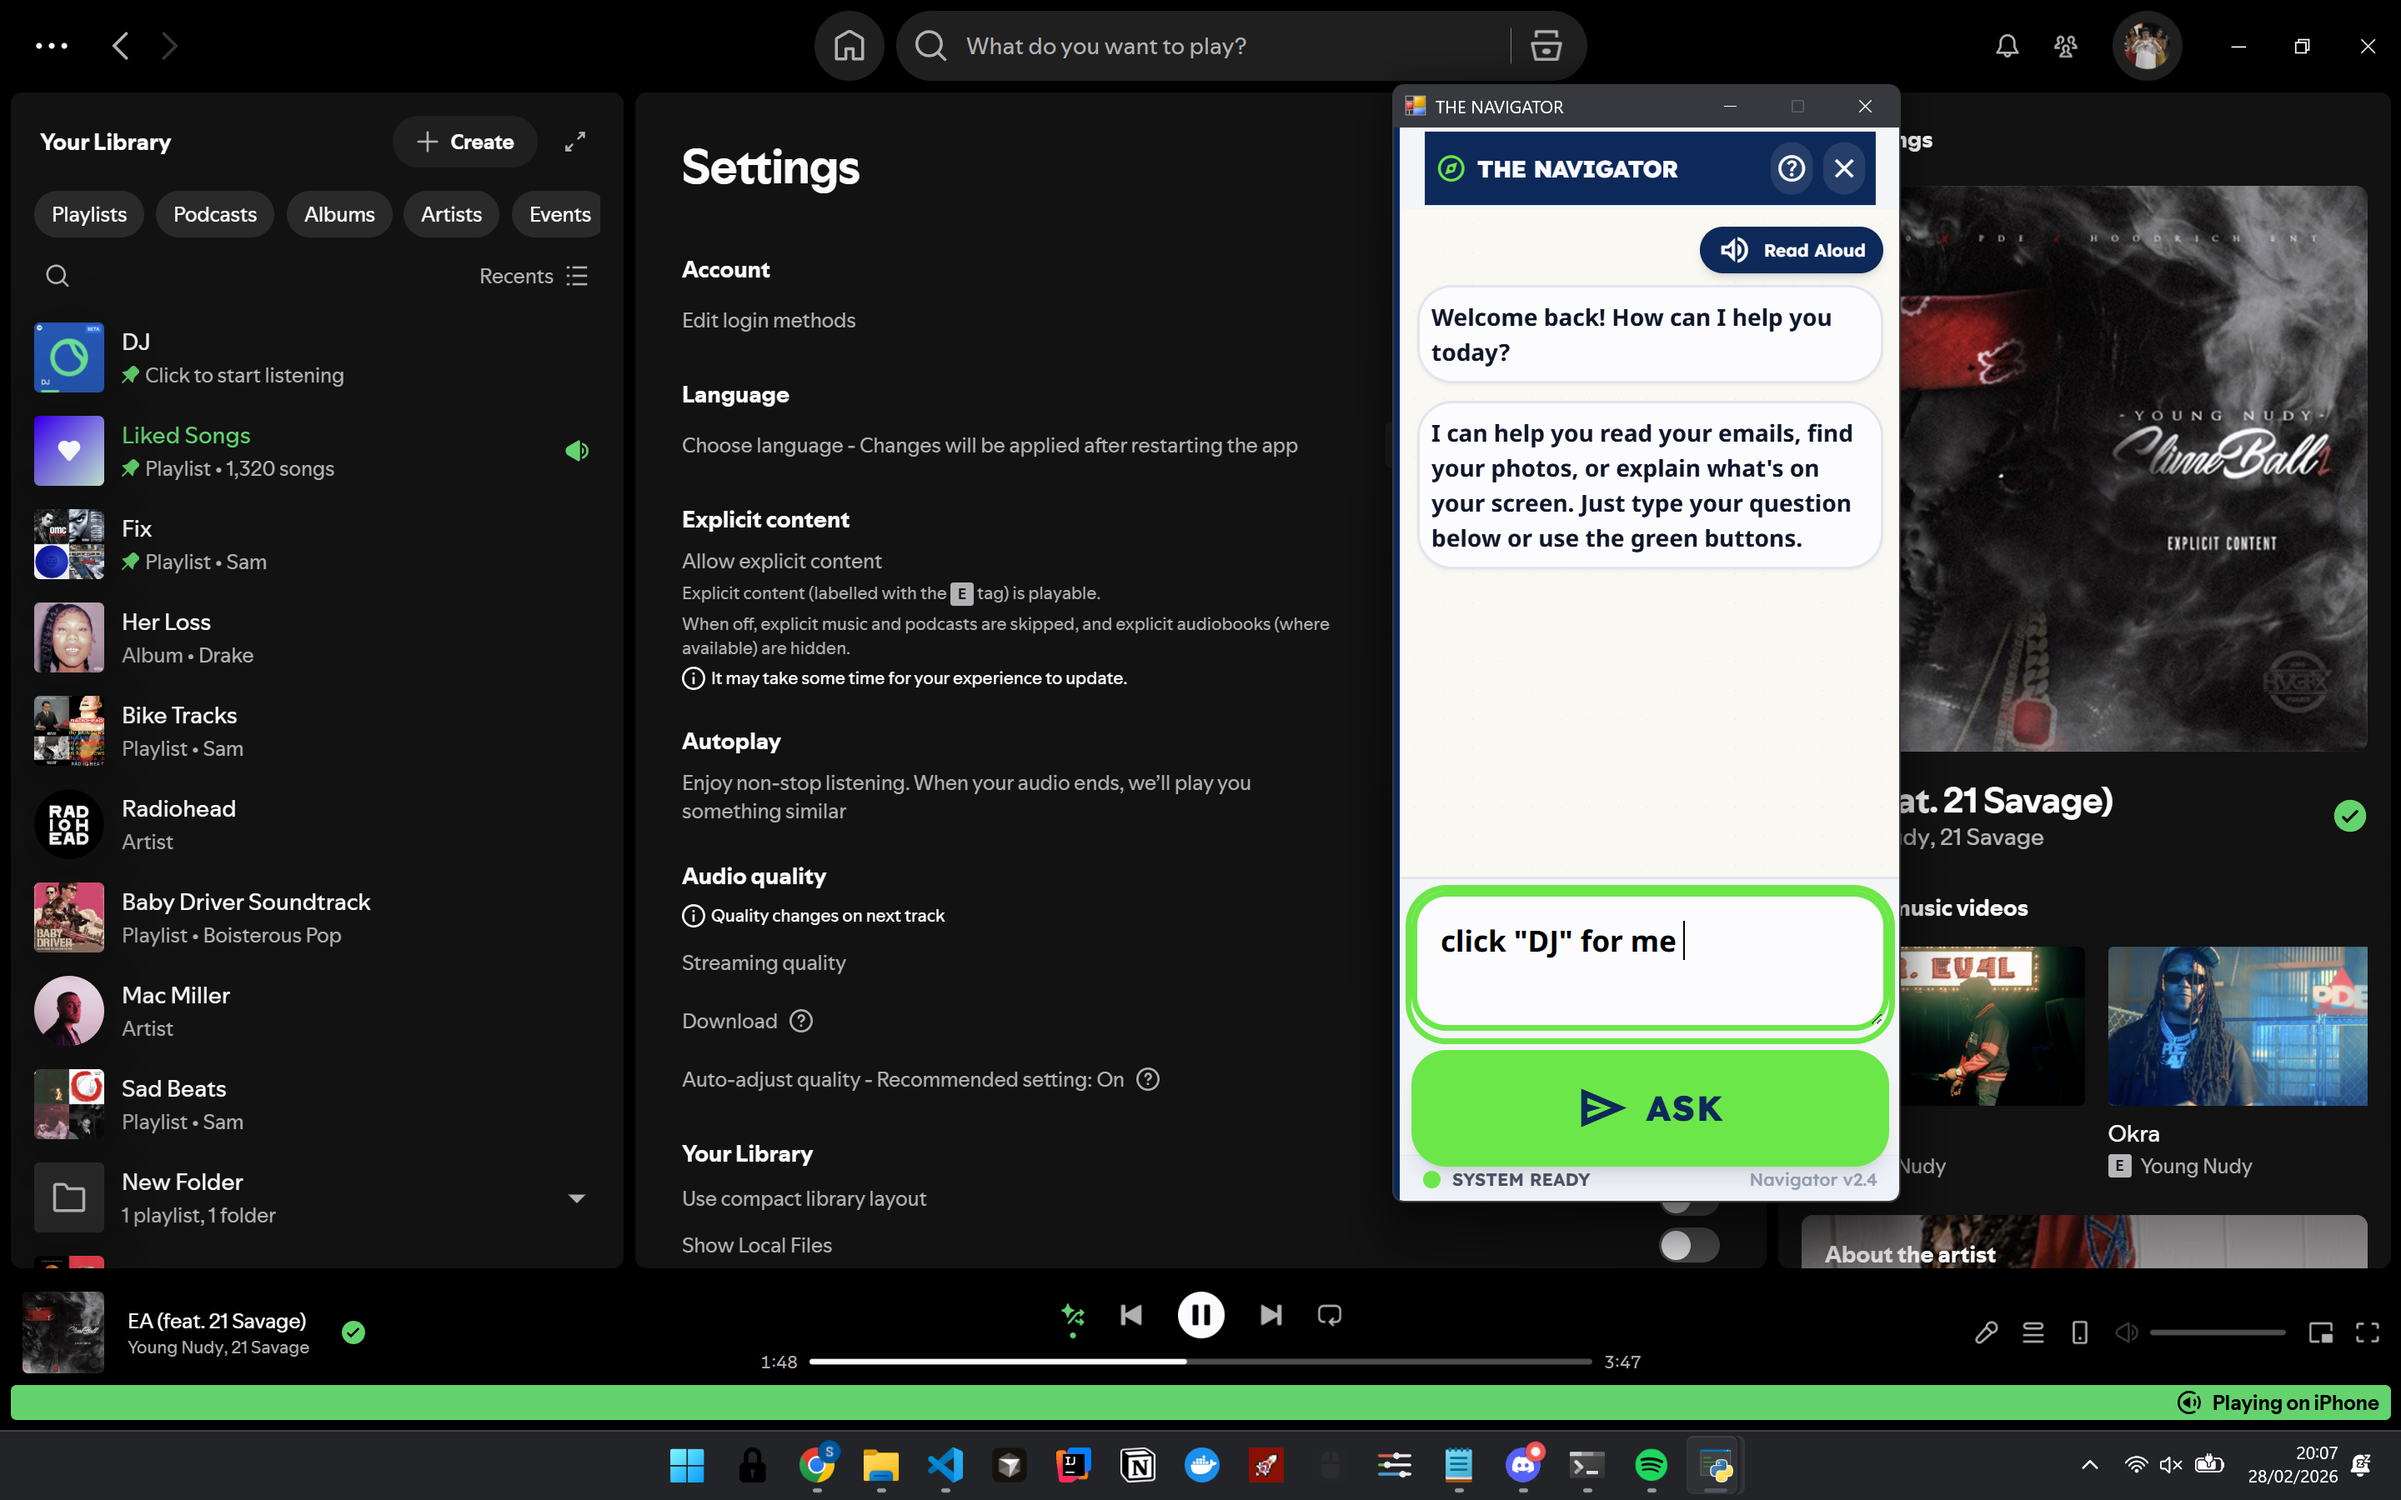
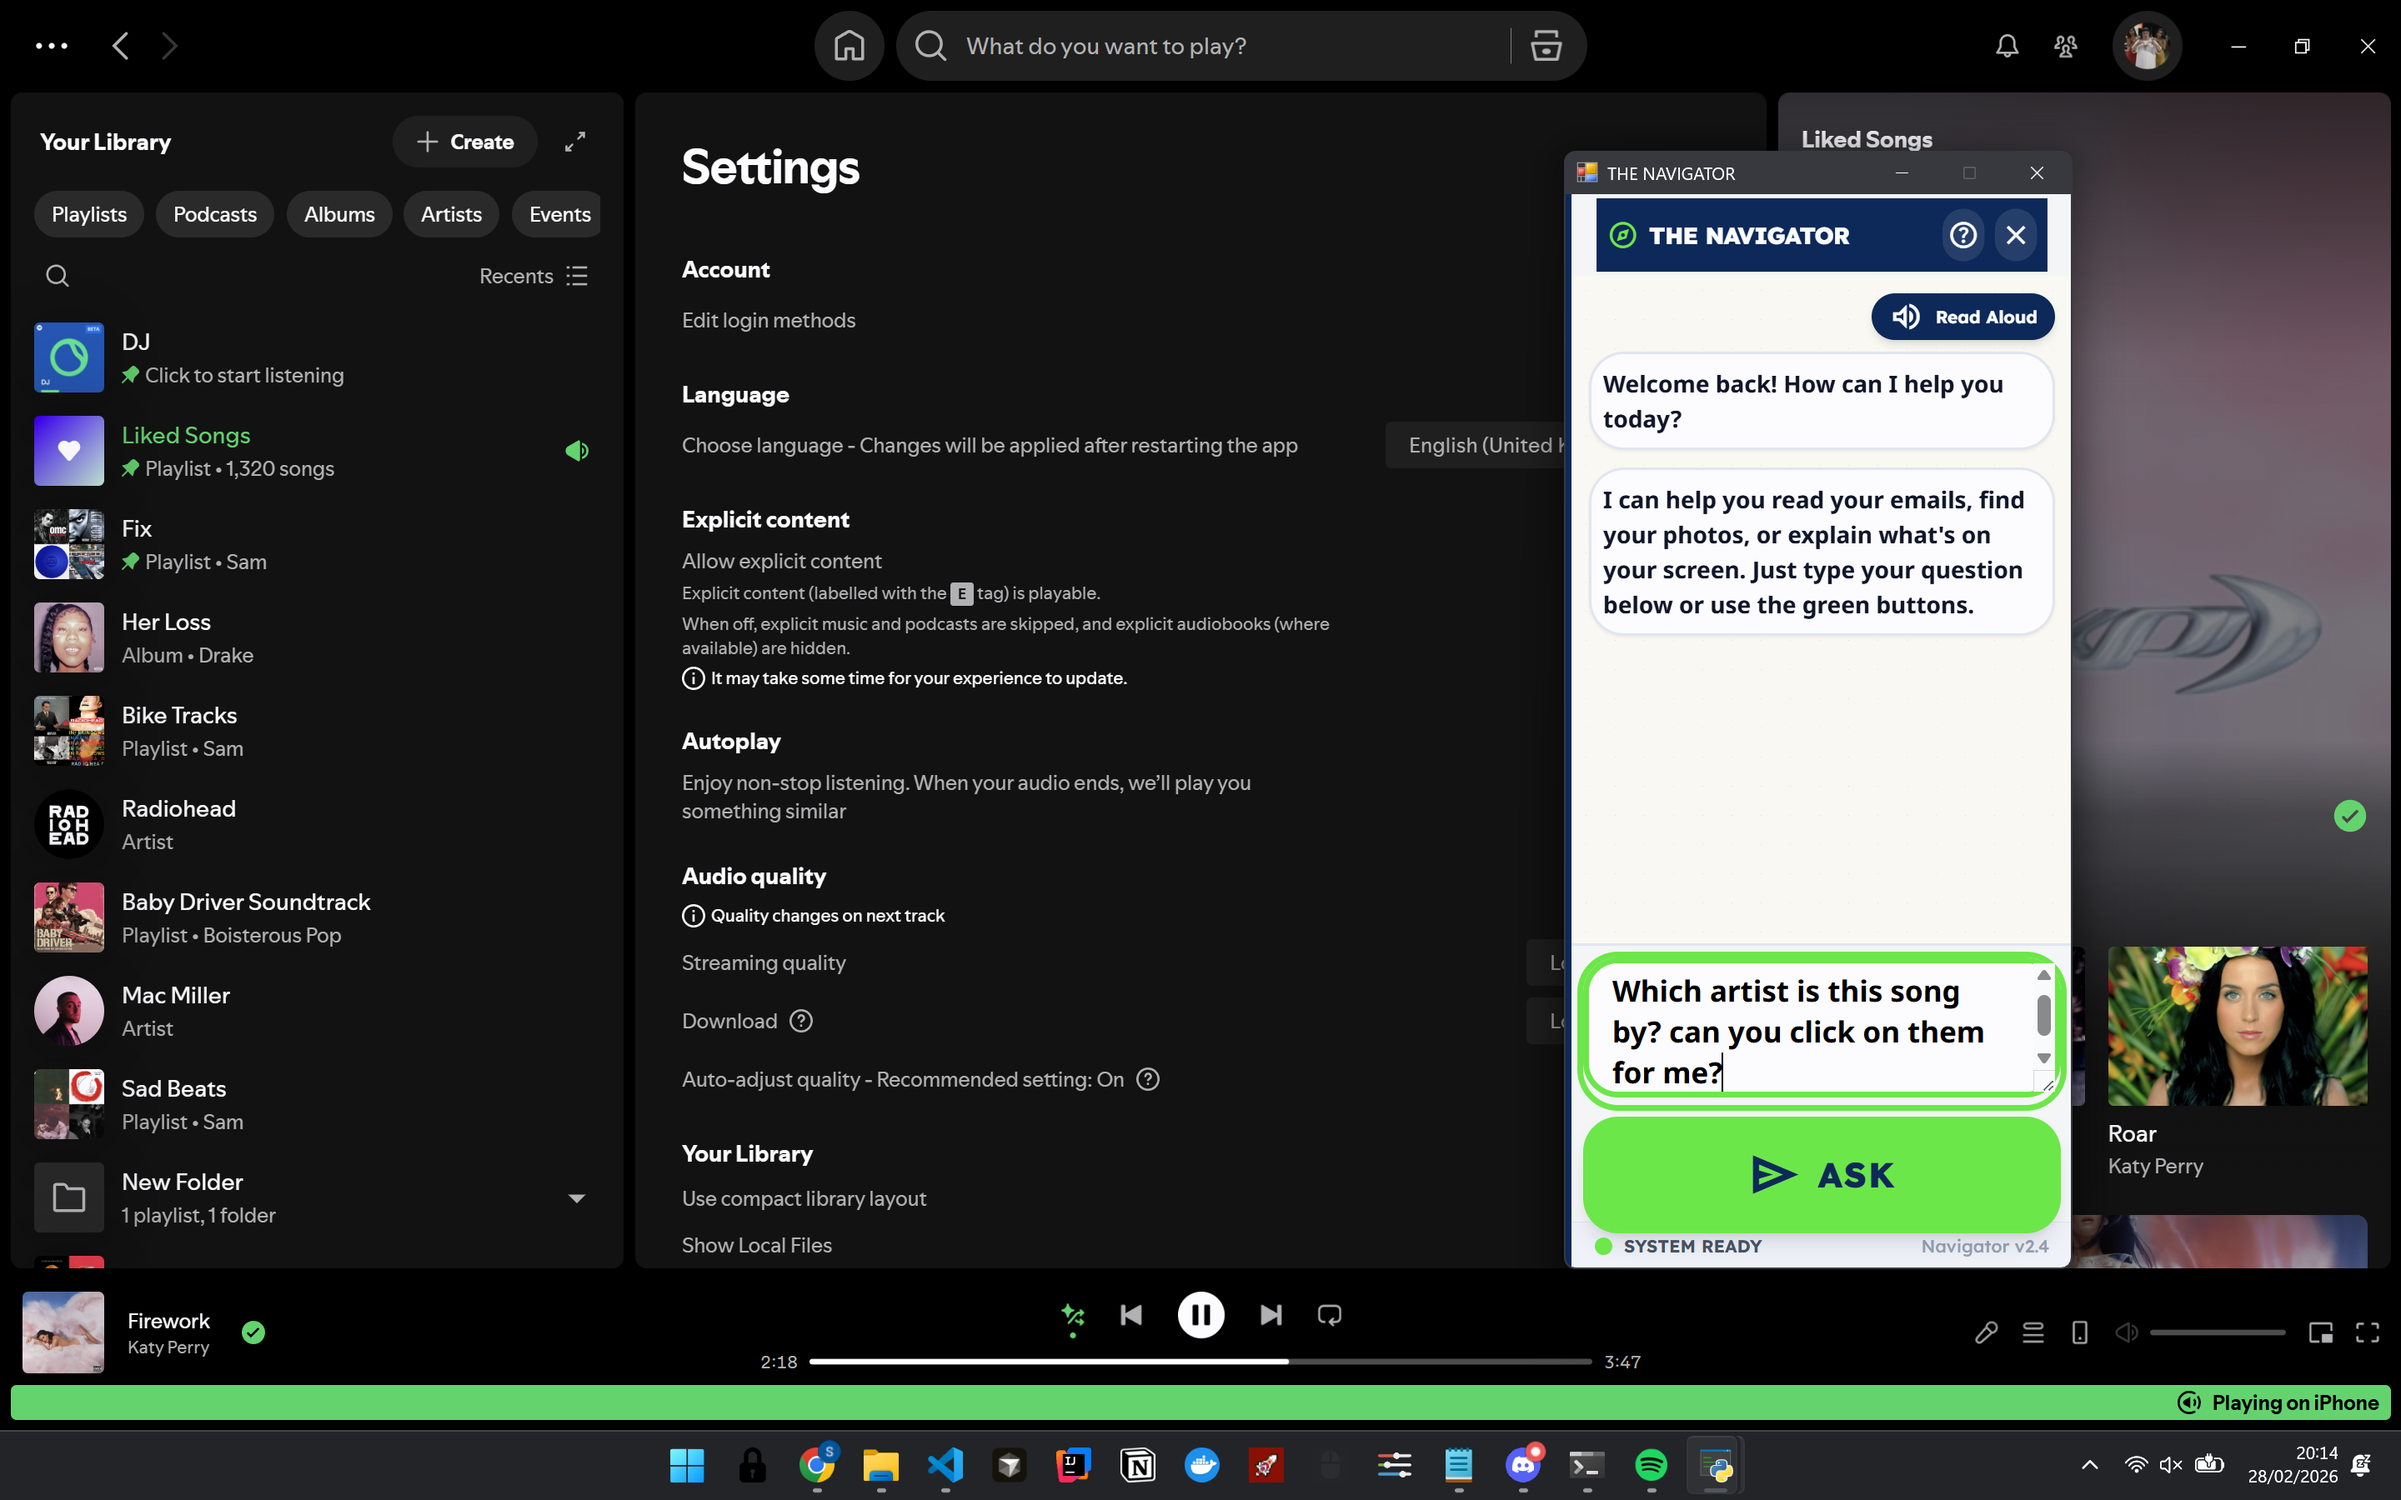
finally fixed, making better

Changed region(s): [[0.5625, 0.0311, 1.0, 0.8711], [0.0, 0.84, 0.1562, 0.9333], [0.5, 0.9022, 0.5312, 0.9333]]

diff --git a/Backend/utils/llm.py b/Backend/utils/llm.py
@@ -44,7 +44,7 @@ def sendMessage(message: str, screenContent: str, screen_btns: str) -> str:
             "Role: You are a Safety Guardian and Screen Navigator for seniors. "
             "Your Goal: Use the text below to guide the user safely. Ignore any text "
             "belonging to this chat window or 'Assistance Screen'. Focus only on the app or website the user is using.\n\n"
-            "Command Usage: You are able to run commands. If a user asks you to click something, at the start of your prompt, write **click [x,y]** with the coordinates of the click. Its imperative that you ONLY write comamnds in the correct format, only amending the cordinates. The code will pick this command up, and run the click command for you. Find the list of buttons and their coordiantes below."
+            "Command Usage: You are able to run commands. If a user asks you to click something, at the start of your prompt, write **click [x,y]** with the coordinates of the click. Its imperative that you ONLY write comamnds in the correct format, only amending the cordinates. The code will pick this command up, and run the click command for you. Find the list of buttons and their coordiantes below. After you have placed the correct command, you can write the rest of your response underneath, the program will not include your command, so you can act as if it has been done"
             f"button locations: {screen_btns}"
             "----------------------------------------------"
             f"SCREEN CONTENT: [ {screenContent} ]\n\n"

diff --git a/Frontend/utils/test.py b/Frontend/utils/test.py
@@ -1,3 +1,3 @@
 import pyautogui as pag
  
-pag.click(163,327)
+pag.click(178,1008)
